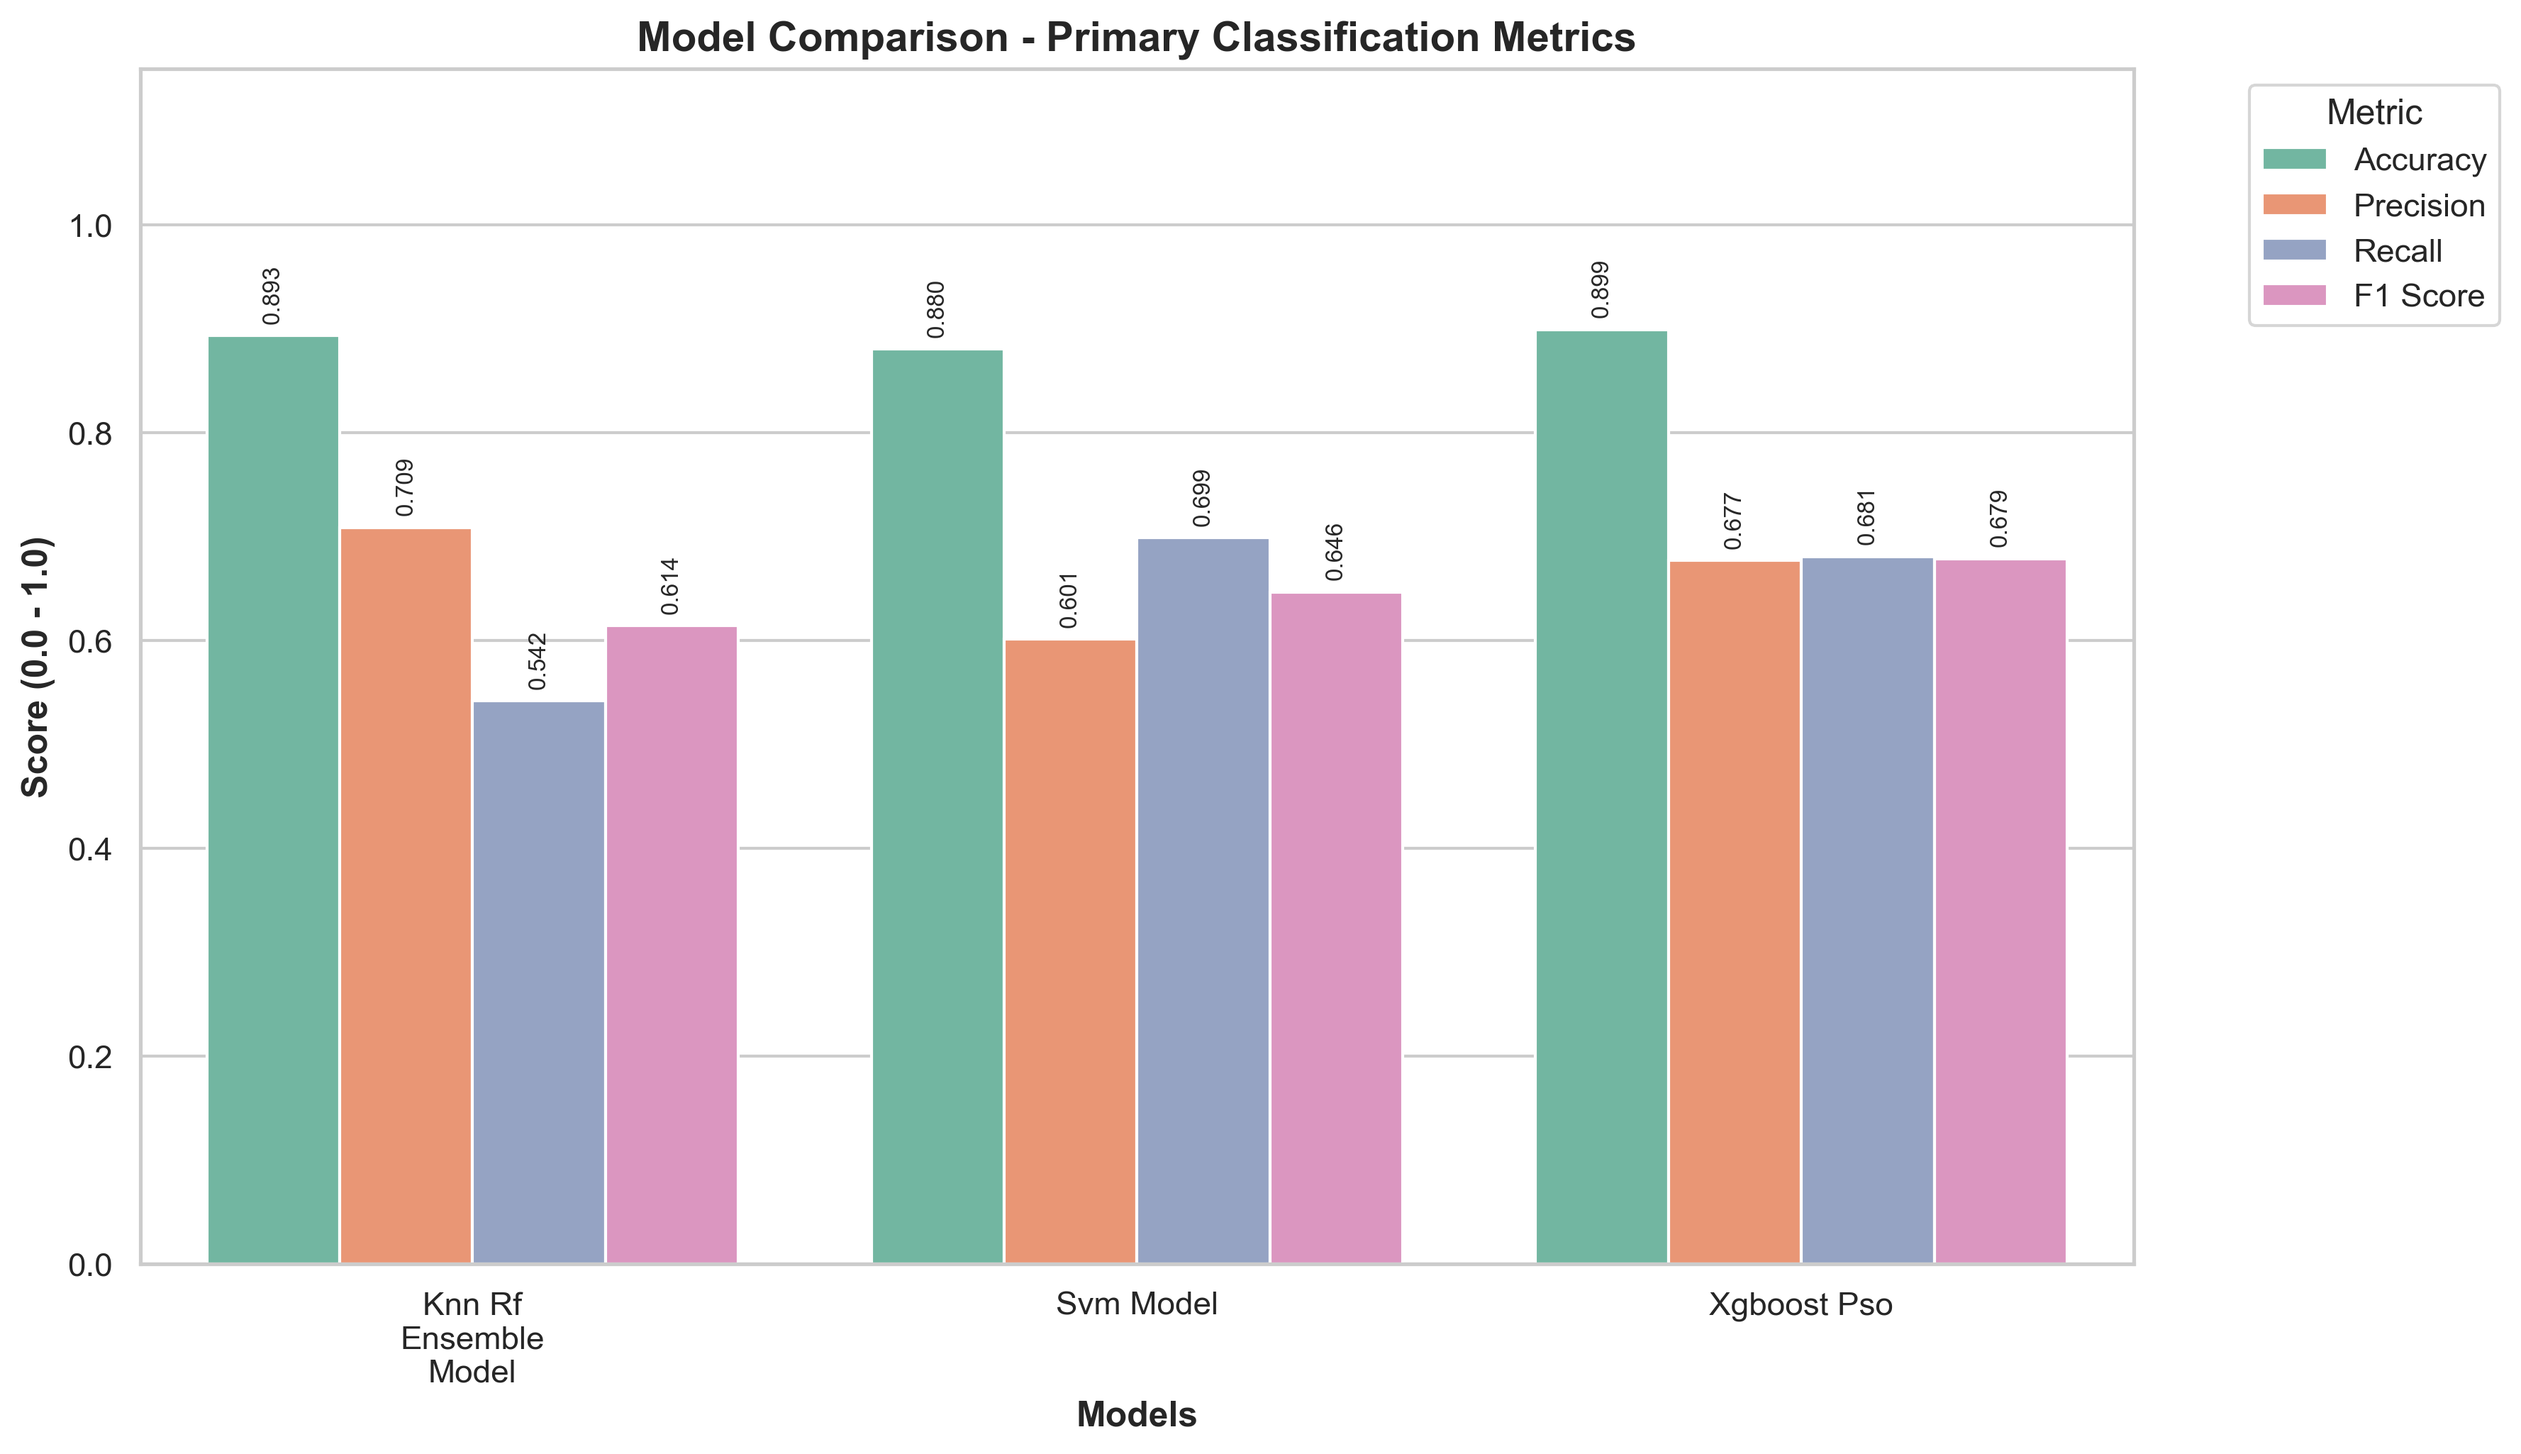
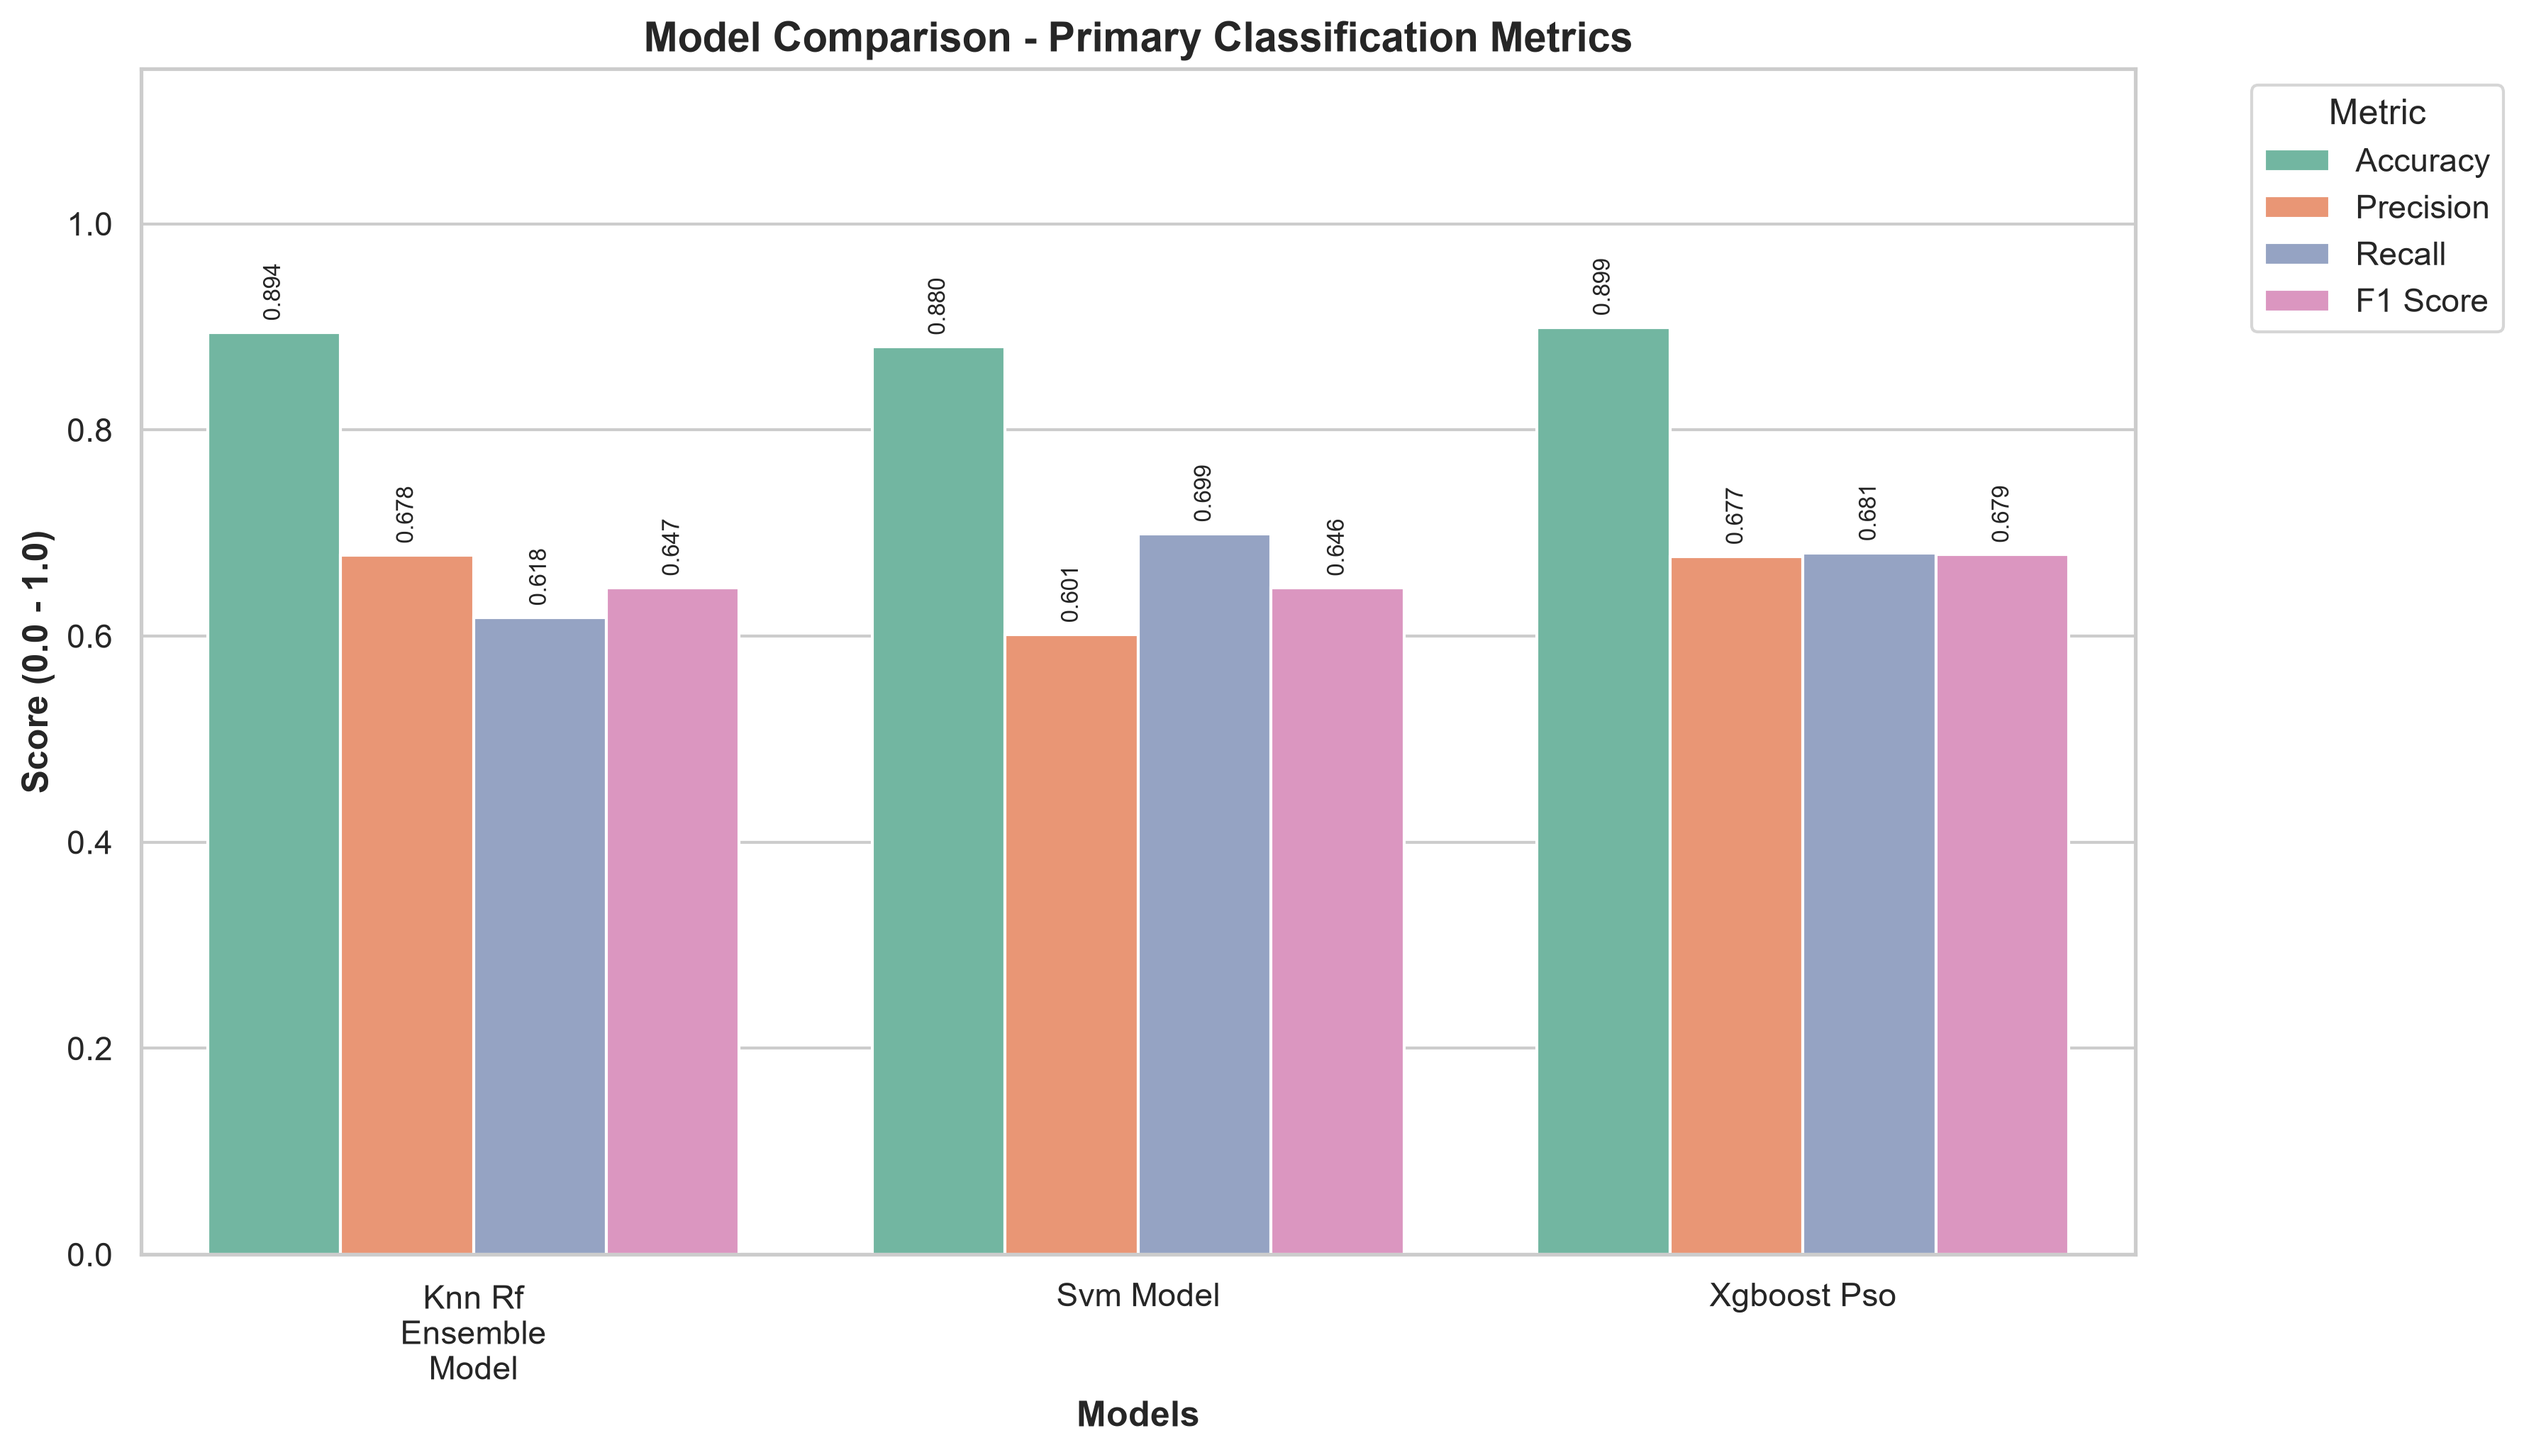
feat: implement KNN-Random Forest stacking ensemble model with probability calibration and threshold analysis reporting

diff --git a/models/knn_rf_ensemble_model.py b/models/knn_rf_ensemble_model.py
@@ -2,6 +2,7 @@ import sys
 from pathlib import Path
 
 import numpy as np
+import pandas as pd
 
 # This lets the script find the project's other folders (like "src") when
 # run directly, e.g. "python models/knn_rf_ensemble_model.py"
@@ -10,11 +11,17 @@ if str(project_root) not in sys.path:
     sys.path.insert(0, str(project_root))
 
 from imblearn.pipeline import Pipeline
-from sklearn.ensemble import RandomForestClassifier, StackingClassifier
-from sklearn.metrics import f1_score
 from sklearn.calibration import CalibratedClassifierCV
-from sklearn.model_selection import GridSearchCV
+from sklearn.ensemble import RandomForestClassifier, StackingClassifier
 from sklearn.linear_model import LogisticRegression
+from sklearn.metrics import (
+    accuracy_score,
+    confusion_matrix,
+    f1_score,
+    precision_score,
+    recall_score,
+)
+from sklearn.model_selection import GridSearchCV
 from sklearn.neighbors import KNeighborsClassifier
 
 from src.data_preprocessing import (
@@ -51,7 +58,7 @@ def train_knn_rf_ensemble(
 
     Both models are automatically tuned to find their best settings using
     GridSearchCV. Then a Stacking Classifier learns how to combine them,
-    followed by probability calibration and optimal threshold tuning.
+    followed by probability calibration and decision threshold configuration.
 
     Args:
         X_train: The training data (customer session features).
@@ -64,7 +71,7 @@ def train_knn_rf_ensemble(
         output_path: Where to save the finished model file. Set to None to skip saving.
 
     Returns:
-        The final trained, stacked, calibrated ensemble model with optimal threshold.
+        The final trained, stacked, calibrated ensemble model with default threshold 0.5.
 
     Raises:
         ValueError: If the training data is missing, missing expected columns,
@@ -216,26 +223,11 @@ def train_knn_rf_ensemble(
     )
     calibrated_ensemble.fit(X_train, y_train)
 
-    # ---- Step 5: Find the Optimal Decision Threshold --------------------
-    # [Advanced Technique: Optimal Threshold Tuning]
-    # Instead of using the default 0.5 cutoff, we scan every threshold
-    # from 0.01 to 0.99 and pick the one that gives the best F1 score.
-    # This compensates for the imbalanced dataset (far more non-buyers
-    # than buyers), where 0.5 may not be the best decision boundary.
-    print("[train_knn_rf_ensemble] Finding optimal decision threshold...")
-    train_proba = calibrated_ensemble.predict_proba(X_train)[:, 1]
-
-    best_threshold, best_f1_thresh = 0.5, -1.0
-    for t in np.arange(0.01, 1.0, 0.01):
-        preds = (train_proba >= t).astype(int)
-        f1 = f1_score(y_train, preds, zero_division=0)
-        if f1 > best_f1_thresh:
-            best_f1_thresh, best_threshold = f1, round(float(t), 2)
-
-    calibrated_ensemble.optimal_threshold_ = best_threshold
+    # ---- Step 5: Decision Threshold Configuration -----------------------
+    # Use standard default decision threshold of 0.50.
+    calibrated_ensemble.optimal_threshold_ = 0.5
     print(
-        f"[train_knn_rf_ensemble] Optimal threshold: {best_threshold:.4f} "
-        f"(F1 = {best_f1_thresh:.4f}, vs default 0.5)"
+        "[train_knn_rf_ensemble] Using default decision threshold: 0.5000"
     )
 
     # ---- Step 6: Save the finished model so it can be reused later --------
@@ -248,6 +240,104 @@ def train_knn_rf_ensemble(
             )
 
     return calibrated_ensemble
+
+
+def evaluate_threshold_range(
+    model,
+    X_test,
+    y_test,
+    thresholds: list[float] | np.ndarray | None = None,
+    save_csv_path: str | Path | None = None,
+) -> pd.DataFrame:
+    """
+    Evaluate model performance across various decision thresholds (e.g., 0.10 to 0.90)
+    and print a comparison table showing Precision, Recall, Specificity, F1-Score,
+    Accuracy, and Confusion Counts (TP, FP, FN, TN).
+
+    This test provides empirical evidence for presentation on why the default 0.50
+    threshold is preferred over higher thresholds (which cause Recall to drop to 0.5+).
+
+    Args:
+        model: Trained classifier supporting `predict_proba`.
+        X_test: Test features.
+        y_test: True test labels (0 or 1).
+        thresholds: Array or list of float thresholds to evaluate. Defaults to 0.10 - 0.90 (step 0.05).
+        save_csv_path: Optional path to save the resulting DataFrame as a CSV file.
+
+    Returns:
+        pd.DataFrame containing the detailed metrics for each threshold.
+    """
+    if thresholds is None:
+        thresholds = np.arange(0.10, 0.95, 0.05)
+
+    if not hasattr(model, "predict_proba"):
+        raise ValueError("Model must implement predict_proba() to evaluate decision thresholds.")
+
+    y_prob = model.predict_proba(X_test)[:, 1]
+
+    rows = []
+    for t in thresholds:
+        t_val = round(float(t), 2)
+        preds = (y_prob >= t_val).astype(int)
+
+        cm = confusion_matrix(y_test, preds)
+        tn, fp, fn, tp = cm.ravel() if cm.shape == (2, 2) else (0, 0, 0, 0)
+
+        acc = accuracy_score(y_test, preds)
+        prec = precision_score(y_test, preds, zero_division=0)
+        rec = recall_score(y_test, preds, zero_division=0)
+        spec = tn / (tn + fp) if (tn + fp) > 0 else 0.0
+        f1 = f1_score(y_test, preds, zero_division=0)
+
+        note = "<- [DEFAULT: 0.50]" if np.isclose(t_val, 0.50) else ""
+
+        rows.append({
+            "Threshold": t_val,
+            "Accuracy": acc,
+            "Precision": prec,
+            "Recall": rec,
+            "Specificity": spec,
+            "F1 Score": f1,
+            "TP": tp,
+            "FP": fp,
+            "TN": tn,
+            "FN": fn,
+            "Note": note,
+        })
+
+    df_results = pd.DataFrame(rows)
+
+    # Print formatted comparison table
+    print("\n" + "=" * 96)
+    print("        KNN + RANDOM FOREST ENSEMBLE: DECISION THRESHOLD SENSITIVITY ANALYSIS")
+    print("=" * 96)
+    print(
+        f"{'Threshold':>9} | {'Accuracy':>8} | {'Precision':>9} | {'Recall':>8} | "
+        f"{'Specificity':>11} | {'F1 Score':>8} | {'TP':>4} | {'FP':>4} | {'FN':>4} | Note"
+    )
+    print("-" * 96)
+    for _, row in df_results.iterrows():
+        print(
+            f"{row['Threshold']:>9.2f} | {row['Accuracy']:>8.4f} | {row['Precision']:>9.4f} | "
+            f"{row['Recall']:>8.4f} | {row['Specificity']:>11.4f} | {row['F1 Score']:>8.4f} | "
+            f"{int(row['TP']):>4d} | {int(row['FP']):>4d} | {int(row['FN']):>4d} | {row['Note']}"
+        )
+    print("=" * 96)
+
+    # Print presentation insights
+    row_50 = df_results[np.isclose(df_results["Threshold"], 0.50)]
+    rec_50 = float(row_50["Recall"].values[0]) if not row_50.empty else 0.0
+    prec_50 = float(row_50["Precision"].values[0]) if not row_50.empty else 0.0
+    f1_50 = float(row_50["F1 Score"].values[0]) if not row_50.empty else 0.0
+    tp_50 = int(row_50["TP"].values[0]) if not row_50.empty else 0
+
+    if save_csv_path:
+        csv_file = Path(save_csv_path)
+        csv_file.parent.mkdir(parents=True, exist_ok=True)
+        df_results.to_csv(csv_file, index=False)
+        print(f"[evaluate_threshold_range] Saved threshold results table to: {csv_file.resolve()}")
+
+    return df_results
 
 
 if __name__ == "__main__":
@@ -269,6 +359,14 @@ if __name__ == "__main__":
     # Print out how well the model performed on data it has never seen.
     metrics = evaluate_model(model, X_test, y_test)
     print_metrics("KNN + Random Forest Ensemble", metrics)
+
+    # Evaluate different threshold values and print comparison table for presentation
+    evaluate_threshold_range(
+        model=model,
+        X_test=X_test,
+        y_test=y_test,
+        save_csv_path=project_root / "report_assets" / "threshold_analysis" / "knn_rf_threshold_results.csv",
+    )
 
     # Generate charts explaining which features most influenced the
     # model's predictions (used in the report/dashboard).
